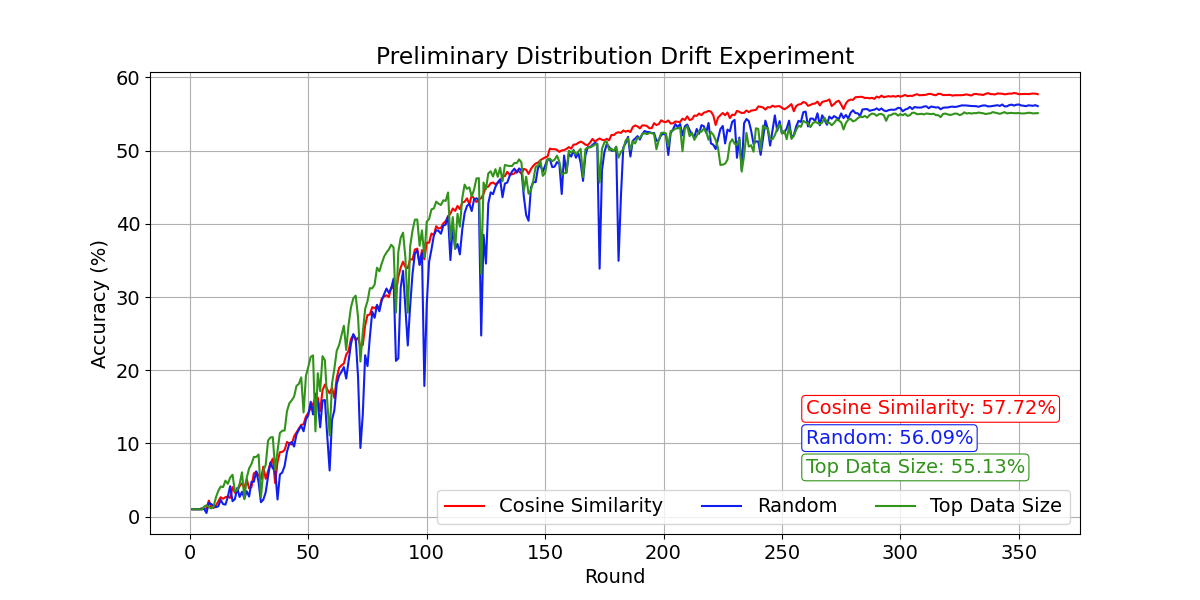
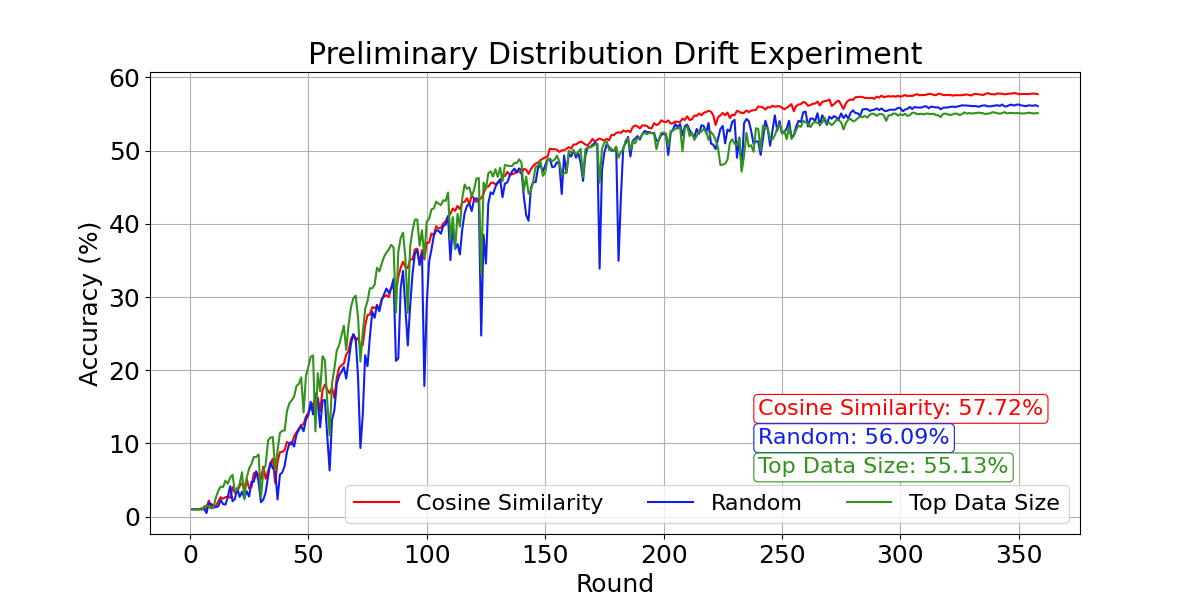
update graph

diff --git a/ds/combine.py b/ds/combine.py
@@ -19,7 +19,7 @@ epochs_random, accuracies_random = parse_log_file('random.log')
 epochs_topdatasize, accuracies_topdatasize = parse_log_file('topDataSize.log')
 
 plt.figure(figsize=(12, 6))
-plt.rcParams.update({'font.size': 14})  # 更新全局字體大小
+plt.rcParams.update({'font.size': 18})  # 更新全局字體大小
 
 # 繪製比較曲線
 plt.plot(epochs_cs, accuracies_cs, label='Cosine Similarity', color='#ff0000')
@@ -39,9 +39,9 @@ def annotate_last_compact(epochs_list, accuracies_list, colors, labels, gap=6):
         y_annotate = last_points[0][0] - idx * (gap + 1)  # 增加間隔以讓 box 之間有更多空間
         plt.annotate(f'{label}: {acc:.2f}%', 
                      xy=(epoch, acc), 
-                     xytext=(x_annotate-100, y_annotate-43),
+                     xytext=(x_annotate-120, y_annotate-43),
                      textcoords='data',
-                     fontsize=14,
+                     fontsize=16,
                      color=color,
                      bbox=dict(boxstyle="round,pad=0.2", fc="white", ec=color, lw=0.8),
                      ha='left', va='center')
@@ -54,8 +54,8 @@ labels = ['Cosine Similarity', 'Random', 'Top Data Size']
 annotate_last_compact(epochs_list, accuracies_list, colors, labels, gap=3)
 
 plt.title('Preliminary Distribution Drift Experiment')
-plt.xlabel('Round')
-plt.ylabel('Accuracy (%)')
-plt.legend(loc='lower right', fontsize=14, ncol=3)
+plt.xlabel('Round', fontsize=18)
+plt.ylabel('Accuracy (%)', fontsize=18)
+plt.legend(loc='lower right', fontsize=16, ncol=3)
 plt.grid(True)
 plt.savefig('accuracy_comparison.png')

diff --git a/ci/combine.py b/ci/combine.py
@@ -19,7 +19,7 @@ epochs_random, accuracies_random = parse_log_file('random.log')
 epochs_topdatasize, accuracies_topdatasize = parse_log_file('topDataSize.log')
 
 plt.figure(figsize=(12, 6))
-plt.rcParams.update({'font.size': 14})  # 更新全局字體大小
+plt.rcParams.update({'font.size': 18})  # 更新全局字體大小
 
 # 繪製比較曲線
 plt.plot(epochs_cs, accuracies_cs, label='Cosine Similarity', color='#ff0000')
@@ -39,9 +39,9 @@ def annotate_last_compact(epochs_list, accuracies_list, colors, labels, gap=6):
         y_annotate = last_points[0][0] - idx * (gap + 1)  # 增加間隔以讓 box 之間有更多空間
         plt.annotate(f'{label}: {acc:.2f}%', 
                      xy=(epoch, acc), 
-                     xytext=(x_annotate-210, y_annotate-40),
+                     xytext=(x_annotate-250, y_annotate-40),
                      textcoords='data',
-                     fontsize=14,
+                     fontsize=16,
                      color=color,
                      bbox=dict(boxstyle="round,pad=0.2", fc="white", ec=color, lw=0.8),
                      ha='left', va='center')
@@ -54,8 +54,8 @@ labels = ['Cosine Similarity', 'Random', 'Top Data Size']
 annotate_last_compact(epochs_list, accuracies_list, colors, labels, gap=3)
 
 plt.title('Preliminary Class-Increment Experiment')
-plt.xlabel('Round')
-plt.ylabel('Accuracy (%)')
-plt.legend(loc='lower right', fontsize=14, ncol=3)
+plt.xlabel('Round', fontsize=18)
+plt.ylabel('Accuracy (%)', fontsize=18)
+plt.legend(loc='lower right', fontsize=16, ncol=3)
 plt.grid(True)
 plt.savefig('accuracy_comparison.png')
